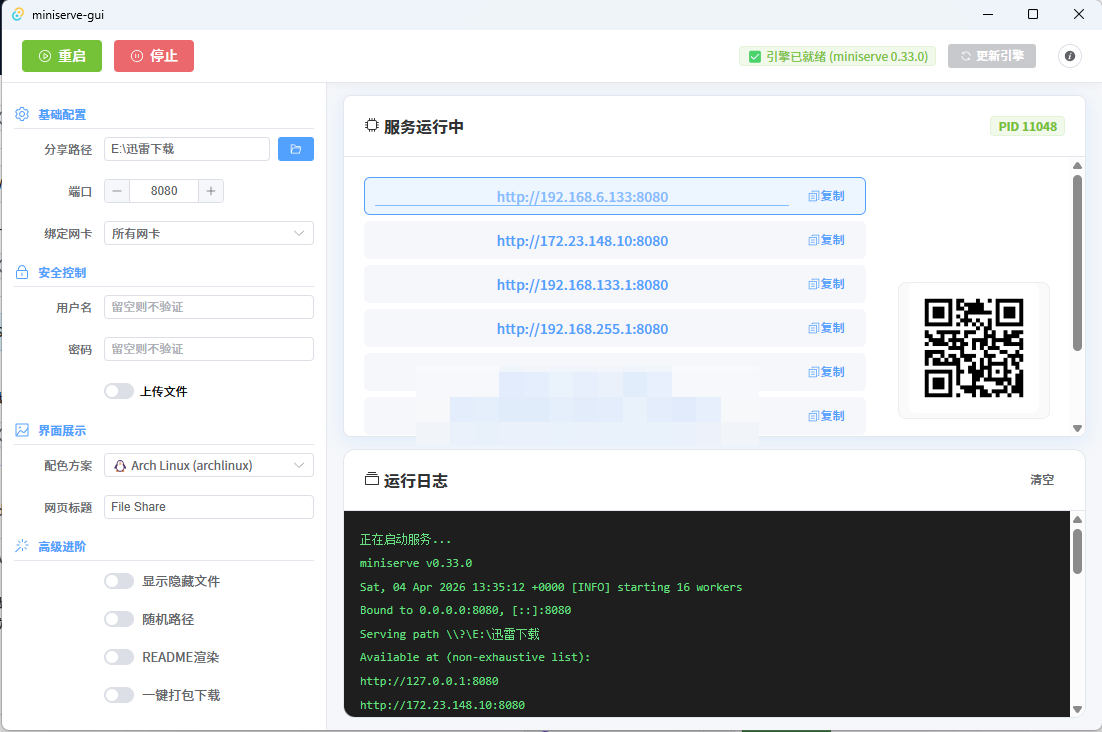
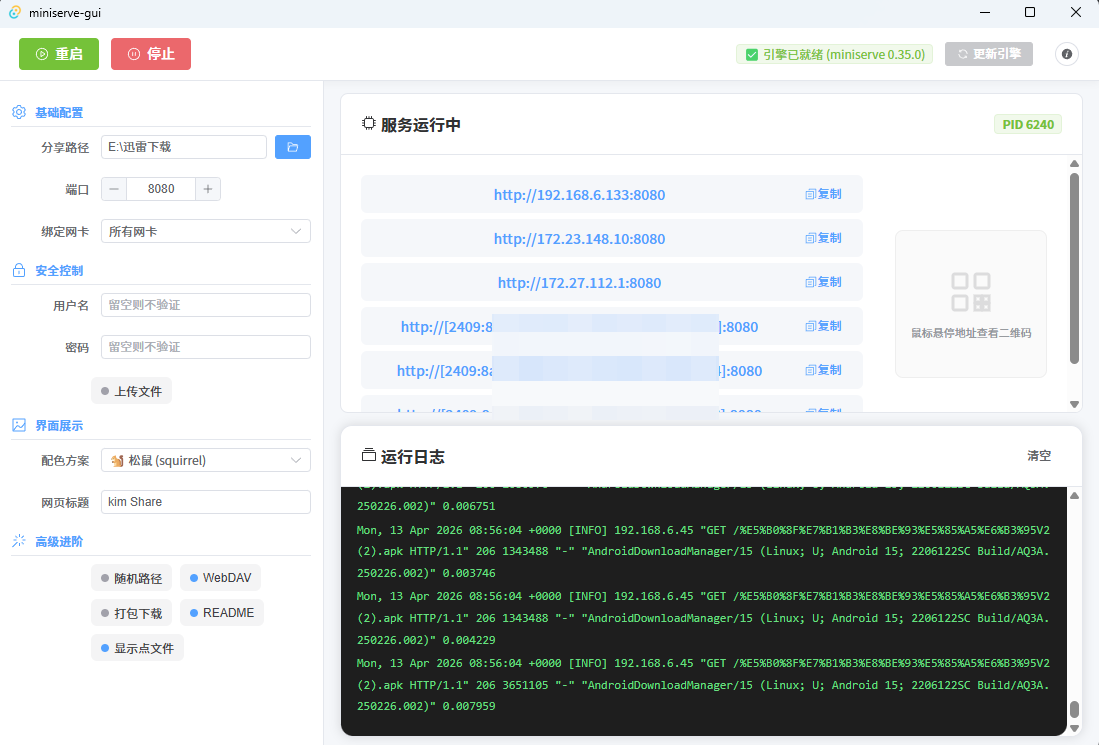
doc:doc update

diff --git a/README.md b/README.md
@@ -20,7 +20,7 @@
 | 平台 | 安装版 | 便携版 (Portable) |
 |------|------|------|
 | **Windows** | `.exe` (NSIS 安装包) | `_portable_x64.exe` (单文件版) |
-| **Linux** | `.deb` (安装包) | `.AppImage` (通用便携版) |
+| **Linux** | `.deb` /`.rpm` (安装包) | `.AppImage` (通用便携版) |
 | **macOS** (未测试) | `.dmg` | - | 
 
 ## 支持的参数
@@ -39,6 +39,7 @@
 | | `--random-route ` | 随机路径 |
 | | `--readme ` | 自动渲染 README |
 | | `--z ` | 一键打包下载 |
+| | `--enable-webdav` | 启用 WebDAV 支持 |
 
 ## 技术栈
 
